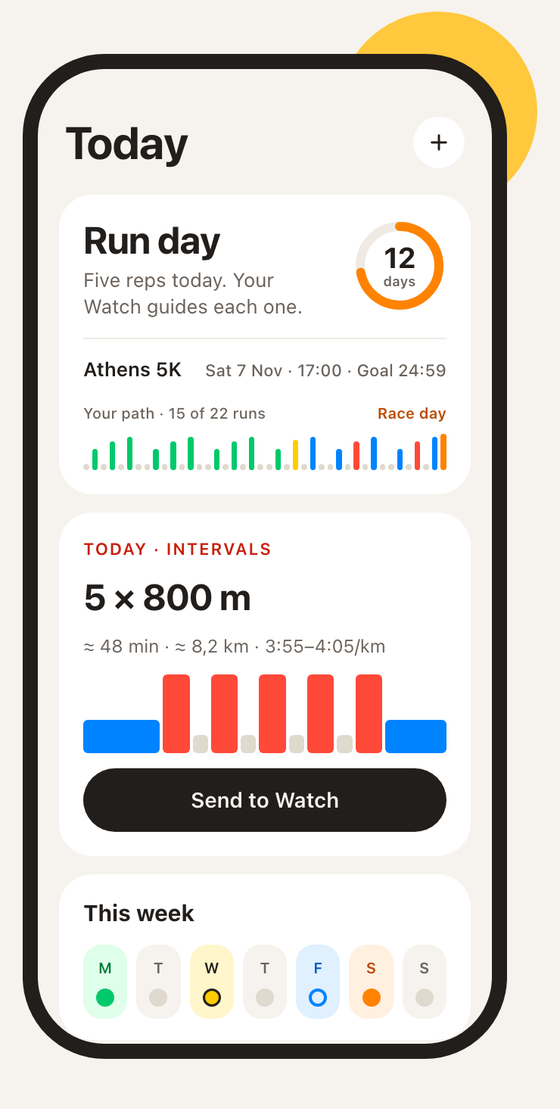
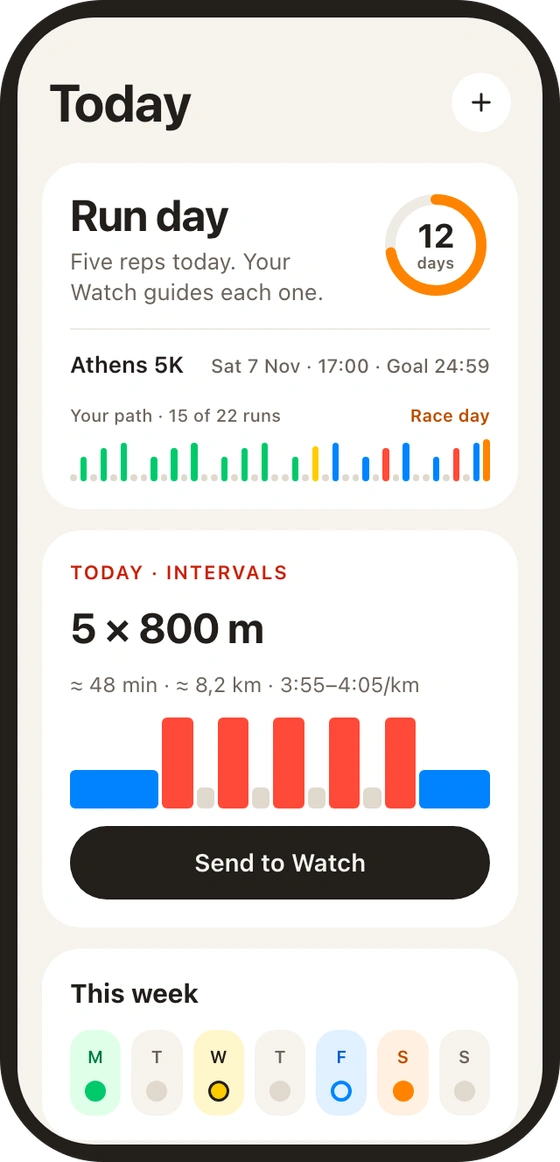
Match Dromo card to the other bento cells
Vivid amber gradient, the shared hue-matched shadow recipe, and a transparent phone cutout.

diff --git a/src/styles/bento.css b/src/styles/bento.css
@@ -262,21 +262,21 @@
 /* ---- Dromo — featured app cell (brand: ink, paper, one yellow dot) ---- */
 .b-dromo {
   --ink: #221e1b;
-  --paper: #f6f3ee;
   --dot: #ffc83d;
-  background: var(--paper);
+  background: linear-gradient(145deg, #ffd763, #ffc83d, #ffb21c);
   color: var(--ink);
   padding: 28px;
   min-height: 300px;
   text-decoration: none;
-  border: 1px solid rgba(34,30,27,0.06);
-  box-shadow: 0 2px 8px rgba(255,200,61,0.16),
-              0 12px 36px rgba(255,200,61,0.30);
+  --accent: #ff9f0a;
+  /* Same shadow recipe as the work cells, in Dromo's amber */
+  box-shadow: 0 2px 8px color-mix(in srgb, var(--accent) 14%, transparent),
+              0 12px 36px color-mix(in srgb, var(--accent) 24%, transparent);
 }
 
 .b-dromo.cell-hover:hover {
-  box-shadow: 0 4px 14px rgba(255,200,61,0.24),
-              0 28px 64px rgba(255,200,61,0.46);
+  box-shadow: 0 4px 14px color-mix(in srgb, var(--accent) 20%, transparent),
+              0 28px 64px color-mix(in srgb, var(--accent) 38%, transparent);
 }
 
 @media (min-width: 1024px) {
@@ -319,7 +319,7 @@
   padding: 6px 13px;
   border-radius: 980px;
   background: #fff;
-  border: 1px solid rgba(34,30,27,0.08);
+  box-shadow: 0 1px 4px rgba(0,0,0,0.06);
   font-family: var(--f-bold);
   font-size: 0.72rem;
   font-weight: 700;
@@ -354,7 +354,7 @@
   font-size: 1.05rem;
   line-height: 1.55;
   letter-spacing: -0.01em;
-  color: #6b635c;
+  color: rgba(34,30,27,0.74);
   margin: 0;
   max-width: 460px;
 }
@@ -369,8 +369,8 @@
 .dromo-chip {
   padding: 7px 15px;
   border-radius: 980px;
-  background: #fff;
-  border: 1px solid rgba(34,30,27,0.08);
+  background: rgba(255,255,255,0.93);
+  box-shadow: 0 1px 4px rgba(0,0,0,0.04);
   font-family: var(--f-bold);
   font-size: 0.82rem;
   font-weight: 600;
@@ -391,6 +391,7 @@
   display: block;
   width: 100%;
   height: auto;
+  filter: drop-shadow(0 14px 28px rgba(34,30,27,0.30));
 }
 
 .b-dromo:hover .dromo-phone { transform: translateY(-10px); }
@@ -436,6 +437,9 @@
     overflow: hidden;
     margin: 26px auto -28px;
   }
+
+  /* The wrapper clips, so a drop shadow would show as a box edge */
+  .dromo-phone img { filter: none; }
 }
 
 /* ---- Work cell — full-bleed image + colored gradient ---- */
